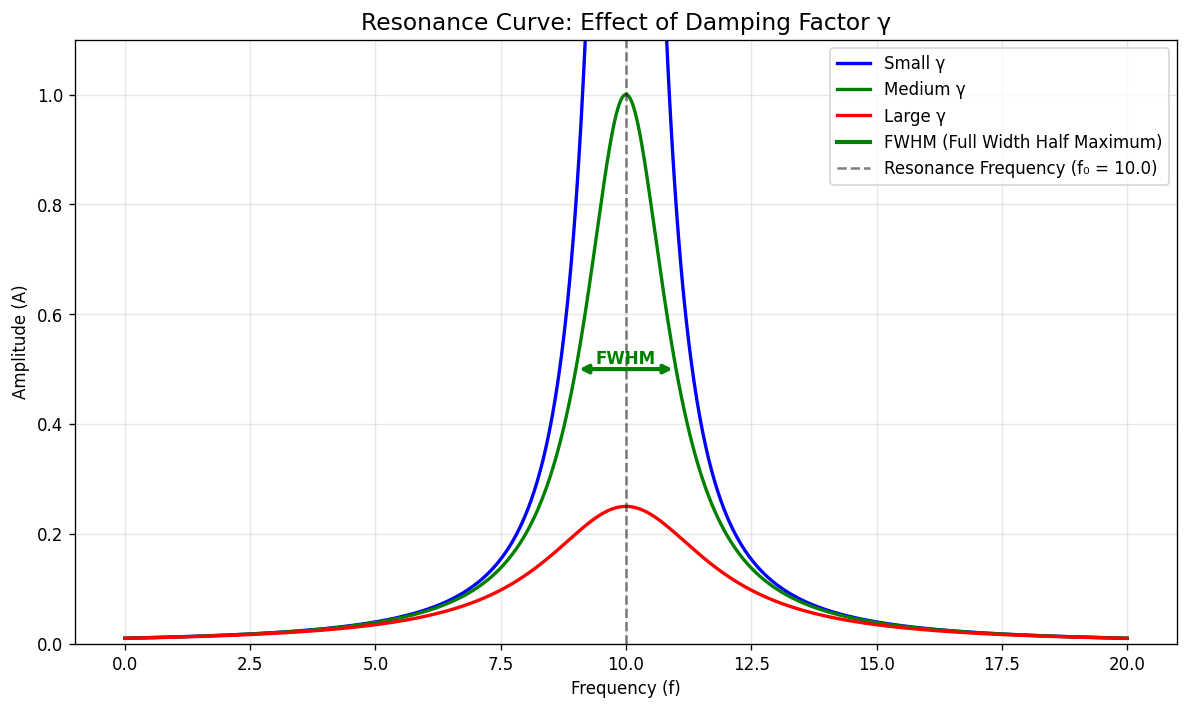
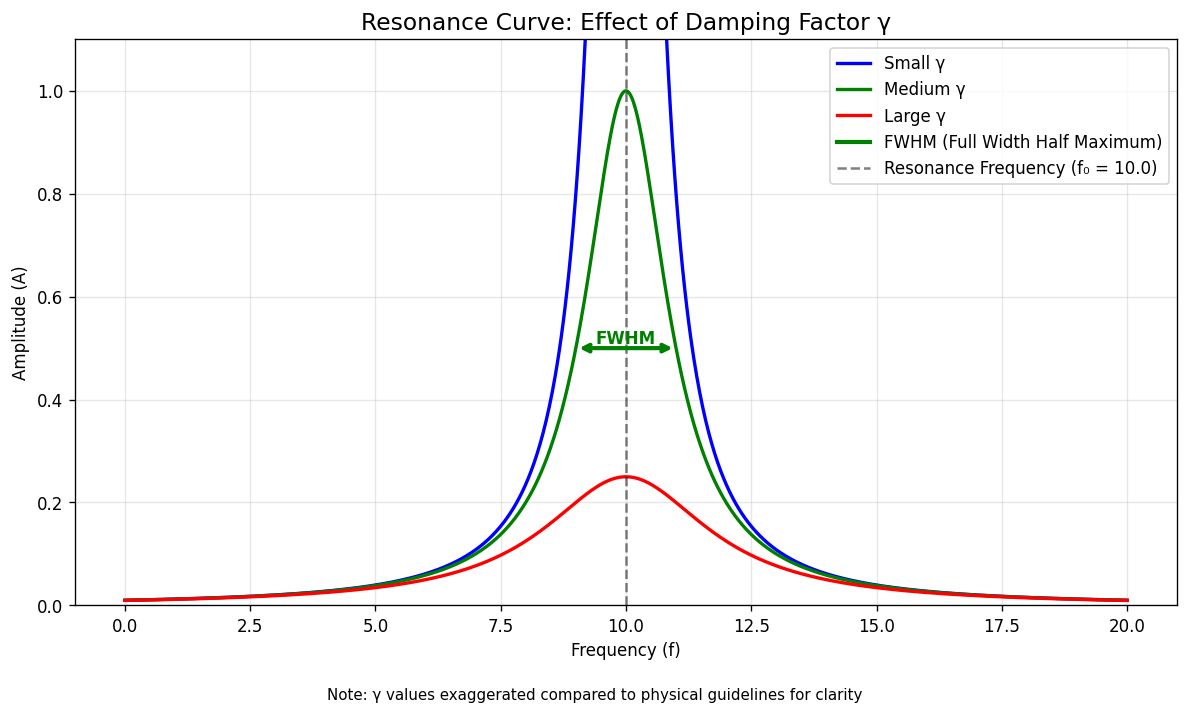
modified:   Resonance_and_Damping_Factors_Graph.png modified:   resonance&damping.py

diff --git a/resonance&damping.py b/resonance&damping.py
@@ -20,9 +20,11 @@ for gamma, color, label in zip(gammas, colors, labels):
 plt.plot([], [], color='green', linewidth=2.5, label='FWHM (Full Width Half Maximum)')
 
 # Add labels and title
+# Add labels and title
 plt.title('Resonance Curve: Effect of Damping Factor γ', fontsize=14)
 plt.xlabel('Frequency (f)')
 plt.ylabel('Amplitude (A)')
+
 plt.axvline(x=f0, color='k', linestyle='--', alpha=0.5, label=f'Resonance Frequency (f₀ = {f0})')
 plt.grid(True, alpha=0.3)
 plt.legend()
@@ -38,5 +40,12 @@ plt.text(f0, A_max/2 + 0.01, 'FWHM', ha='center', fontweight='bold', color='gree
 
 plt.ylim(0, 1.1)
 plt.tight_layout()
+plt.subplots_adjust(bottom=0.15)  # add extra space for footnote
+
+plt.figtext(0.5, 0.02, 
+            "Note: γ values exaggerated compared to physical guidelines for clarity", 
+            wrap=True, ha='center', fontsize=9, color='black')
+
 plt.savefig('Resonance_and_Damping_Factors_Graph.png', dpi=120, bbox_inches='tight')
 plt.show()
+
